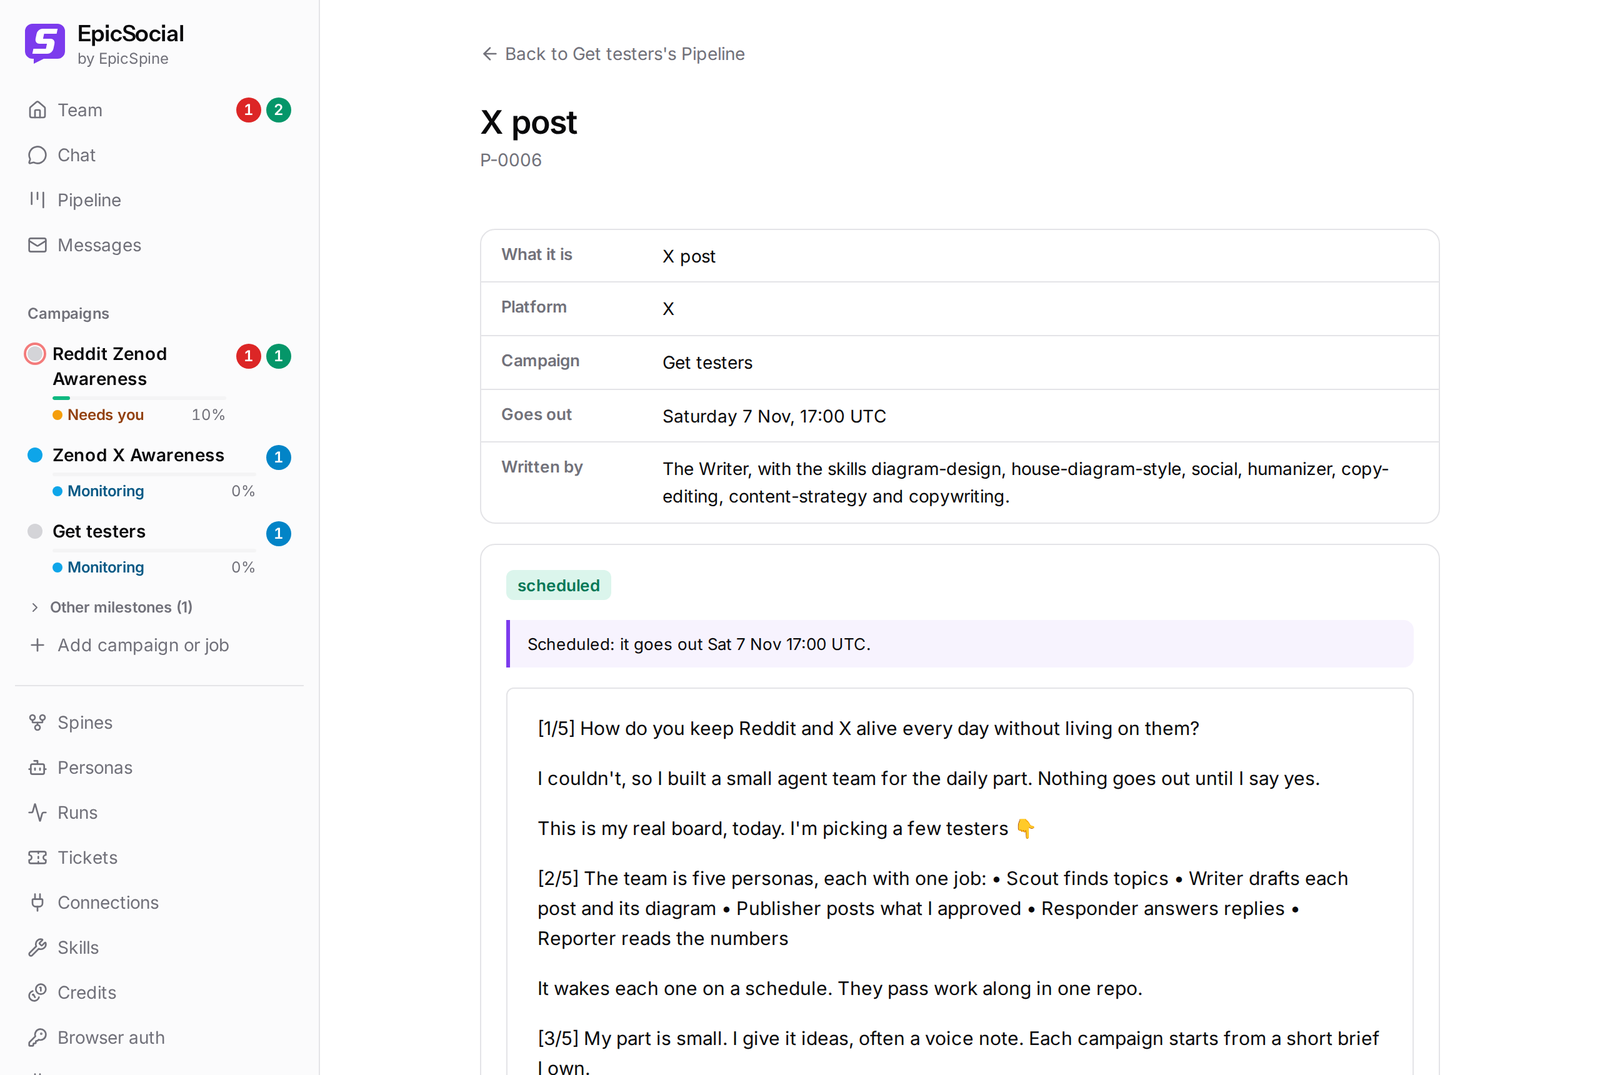
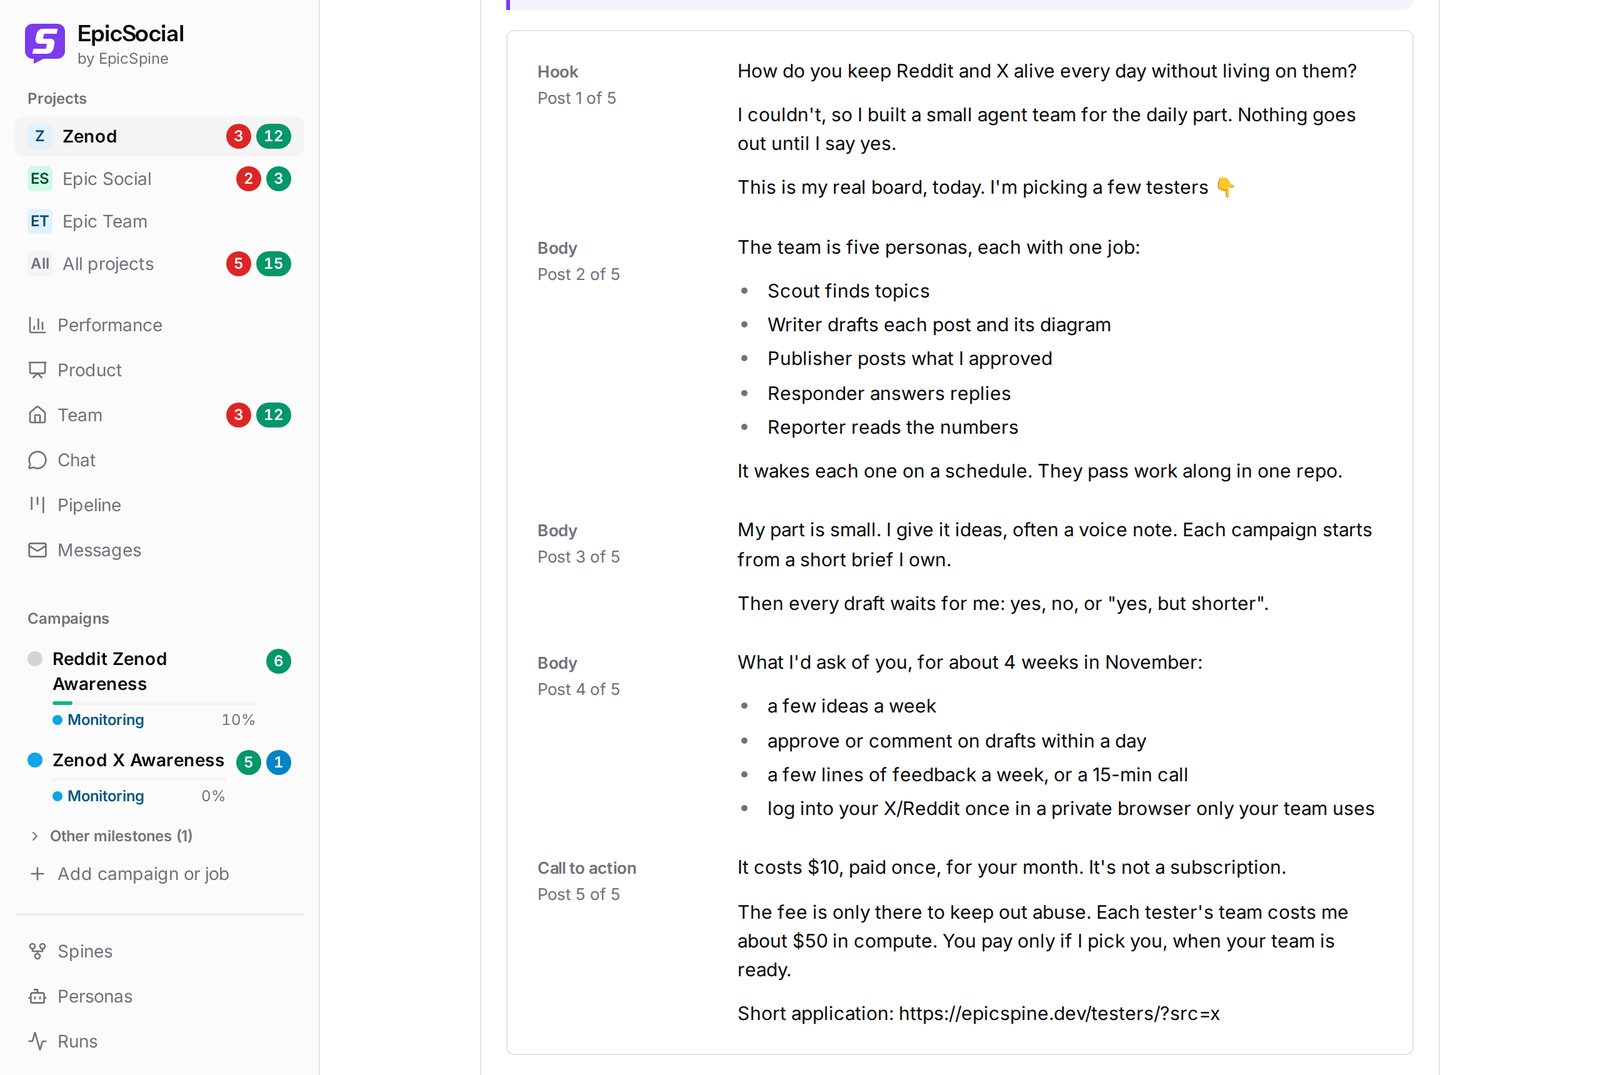
EpicSocial testers page: the post page screen retaken on the post in labelled parts (agent_team E46-S13 round 3, Jordi's E46-A20)
Run: run_47e29e73-5cea-42fd-824f-30d369b6b469

diff --git a/testers/index.html b/testers/index.html
@@ -61,7 +61,7 @@
       </div>
       <div class="pair">
         <figure class="shot">
-          <img src="shots/post-page.png" width="1600" height="1075" loading="lazy" alt="A post page: the X thread for this call, scheduled for 7 November, with what it is, where and when it goes out.">
+          <img src="shots/post-page.png" width="1600" height="1075" loading="lazy" alt="A post page: the X thread for this call in labelled parts, one per post of the thread: the hook, the body with its lists, and the call to action.">
           <figcaption>Every post has its own page: the text, when it goes out, and each version you asked for.</figcaption>
         </figure>
         <figure class="shot phone">
